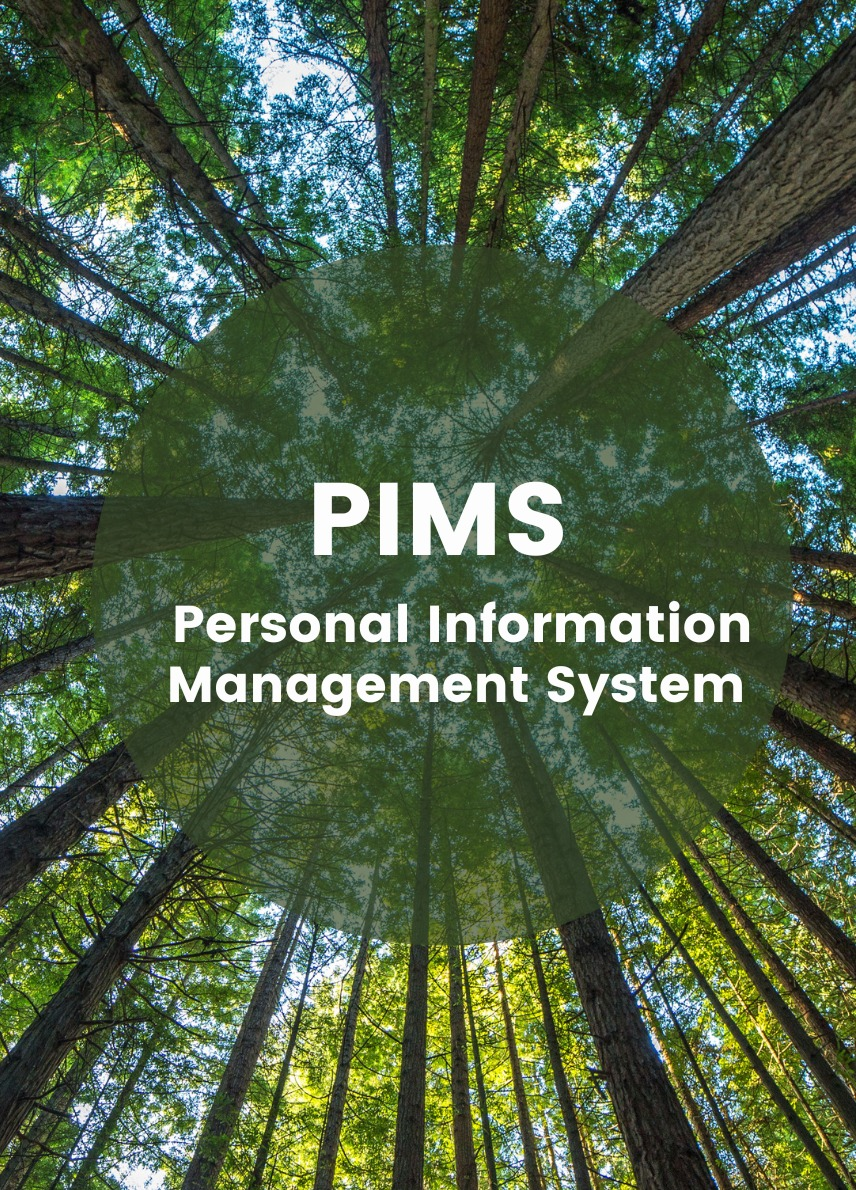
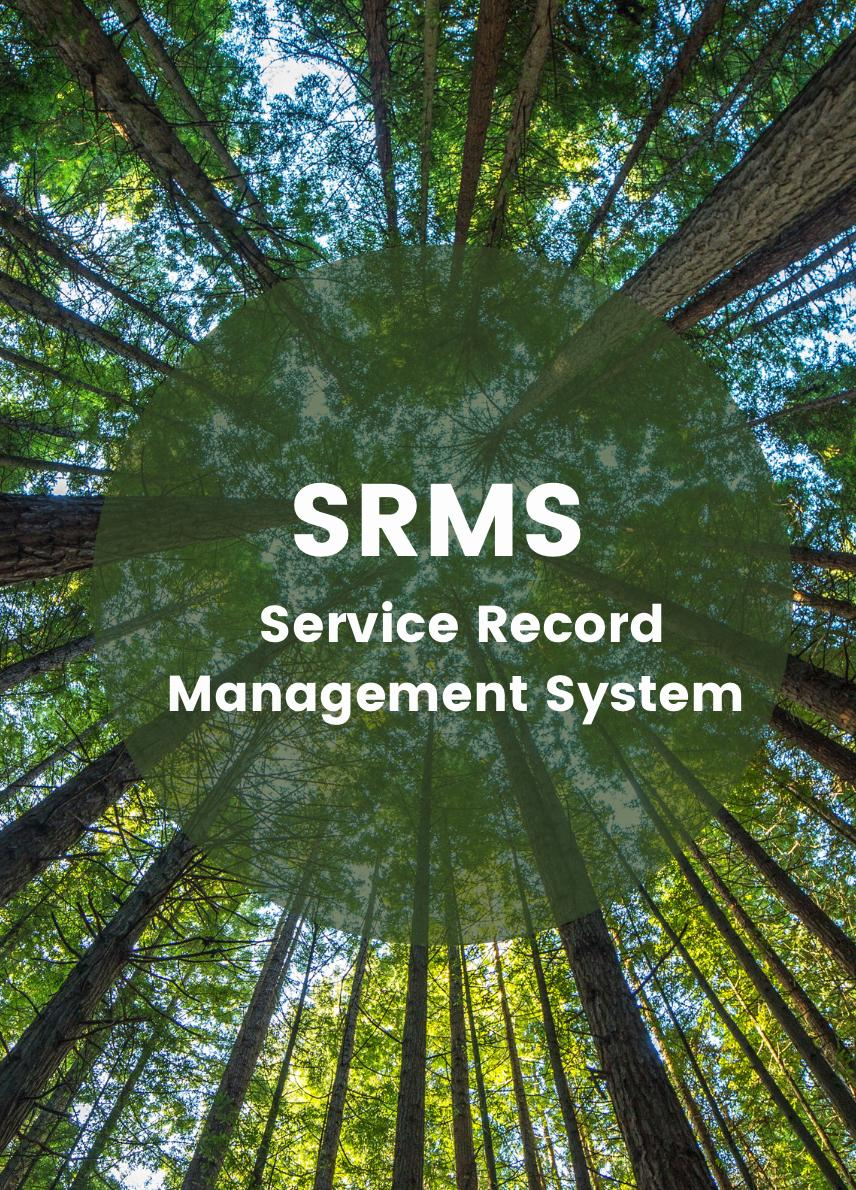
fdf

diff --git a/resources/views/layouts/app.blade.php b/resources/views/layouts/app.blade.php
@@ -4,7 +4,7 @@
 <head>
     <meta charset="utf-8">
     <meta name="viewport" content="width=device-width, initial-scale=1">
-    <title>{{ env('APP_TITLE', 'PIMS') }}</title>
+    <title>{{ env('APP_TITLE', 'SRMS') }}</title>
     <!--favicon-->
     <link rel="icon" href="{{ asset('assets/images/favicon-32x32.png') }}" type="image/png">
 
